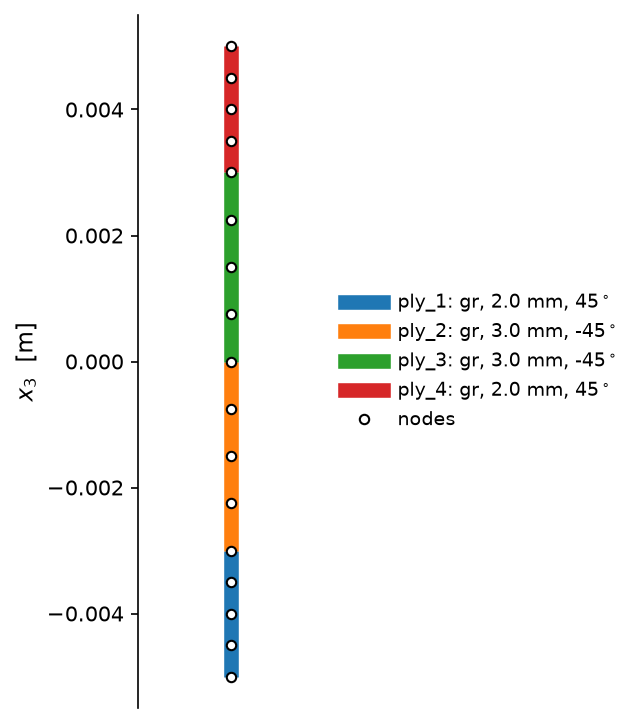
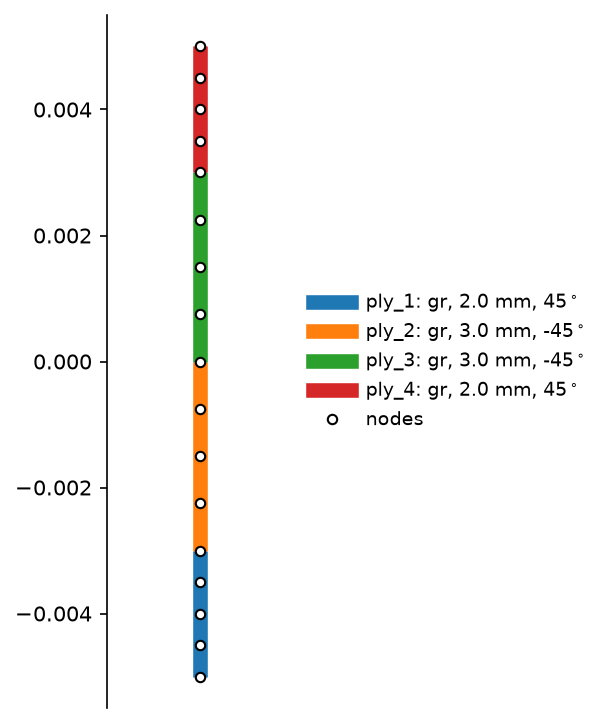
segment_plate: the reference plane belongs to the mesh, not the homogenization call
Documents what the YAML already implements: fraction is given ONCE, at mesh
generation, and from then on it IS the node coordinates -- x3 is measured from
that plane, so x3 = 0 is the reference and a reader can recover OML / mid /
IML from the coordinates alone.  read_plate_sg_yaml does exactly that: it
prefers the stored reference_fraction for bit-exactness but verifies it against
node_x[0], so a file whose header and mesh disagree is rejected rather than
silently trusted.  Nothing downstream chooses a reference; rm_plate_msg is
handed the one the mesh carries.

Includes the hand-edited y-label removal on the mesh figure and the PNG
regenerated to match.

diff --git a/opensg_jax/fe_jax/segment_plate.py b/opensg_jax/fe_jax/segment_plate.py
@@ -19,8 +19,14 @@ Mesh convention (identical to what ``msg_rm_plate`` builds internally, asserted 
   * ``n_per_layer = 1`` by default -> one element per ply
   * nodes are equispaced inside each element, elements share their end nodes, so
     n_node = elem_order * n_elem + 1
-  * x3 is measured from the REFERENCE PLANE set by ``fraction`` (0 = bottom/OML face,
-    0.5 = mid-surface, 1 = top/IML), so the nodes run from -fraction*h to (1-fraction)*h
+  * THE REFERENCE PLANE IS A PROPERTY OF THE MESH, not of the homogenization call.
+    ``fraction`` is given ONCE here, at generation (0 = bottom/OML face, 0.5 =
+    mid-surface, 1 = top/IML), and from then on it IS the node coordinates: x3 is
+    measured from that plane, so the nodes run from -fraction*h to (1-fraction)*h and
+    x3 = 0 is the reference.  A reader can therefore recover the reference from the
+    coordinates alone; ``read_plate_sg_yaml`` does exactly that (it prefers the stored
+    ``reference_fraction`` for bit-exactness but verifies it against node_x[0], so a
+    file whose header and mesh disagree is rejected rather than silently trusted).
 
 YAML layout::
 
@@ -208,7 +214,7 @@ def plot_plate_sg(path, png_path=None):
 
     ax.set_xlim(-0.02, 0.02)
     ax.set_xticks([])
-    ax.set_ylabel("$x_3$  [m]", fontsize=11)
+
     ax.spines[["top", "right", "bottom"]].set_visible(False)
     handles, labels = ax.get_legend_handles_labels()
     order = list(range(1, len(labels))) + [0]         # subdomains first, nodes last
